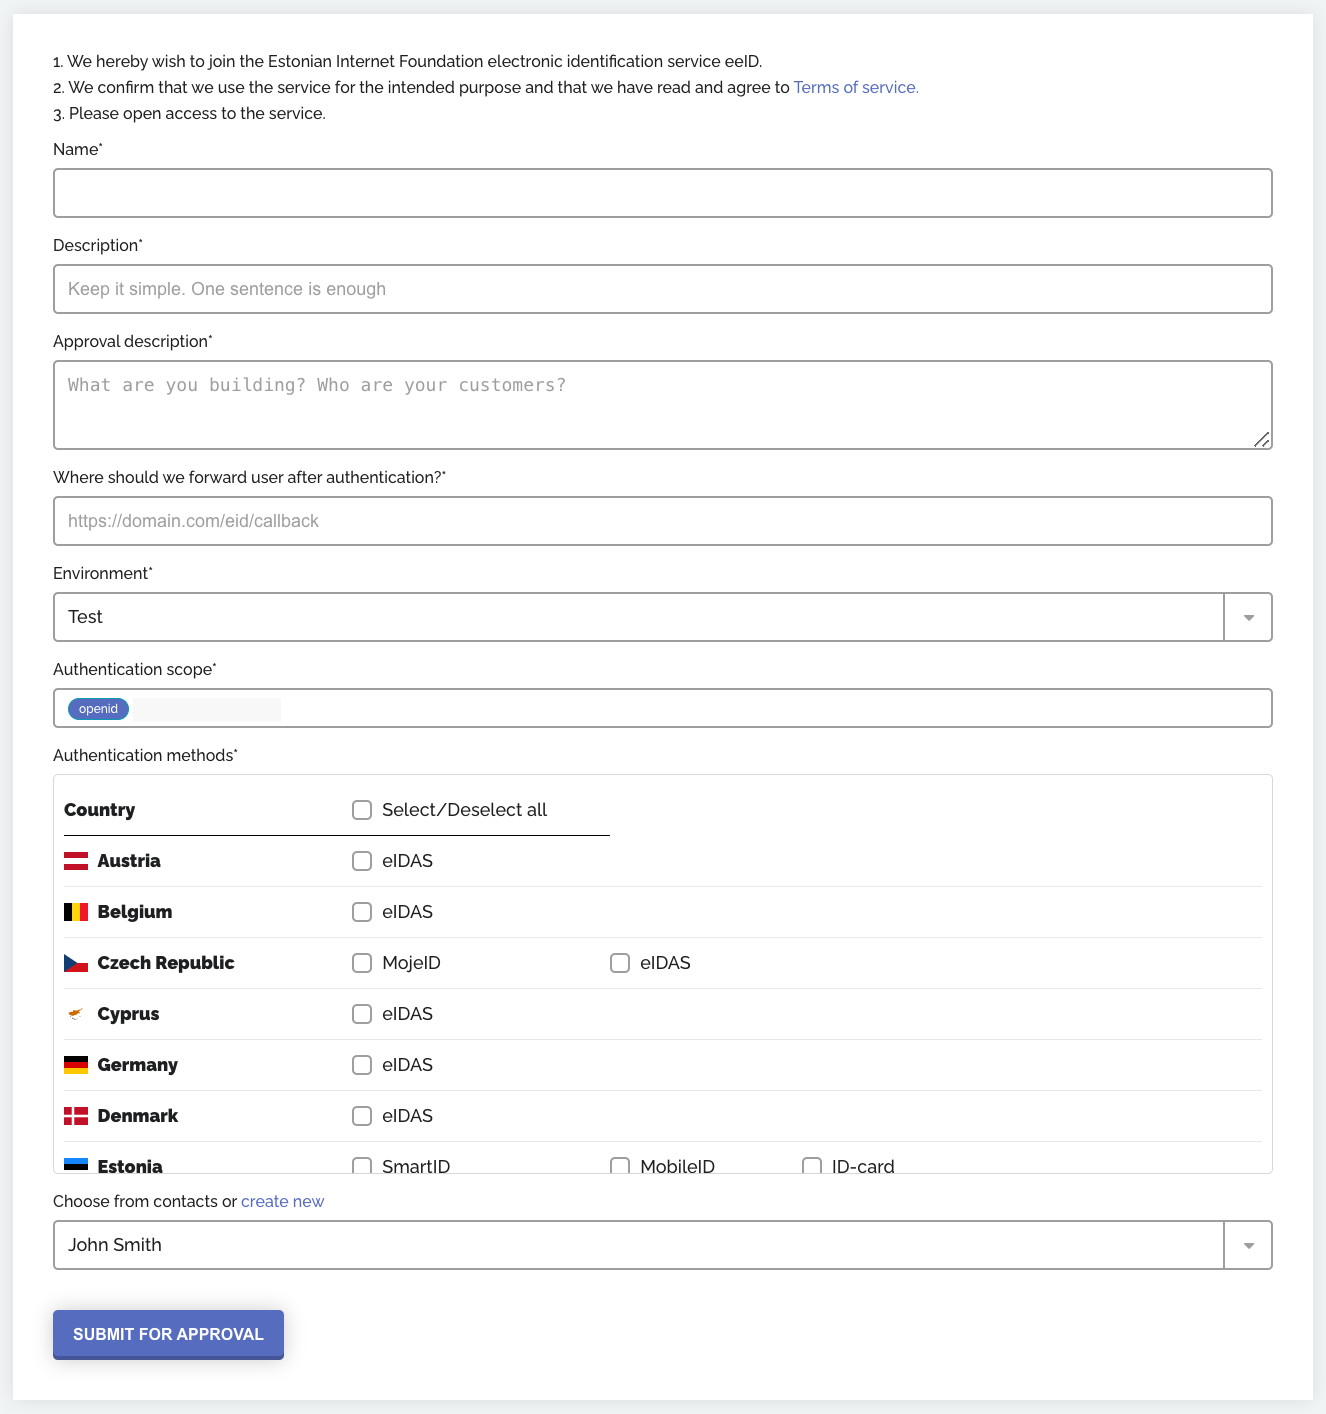
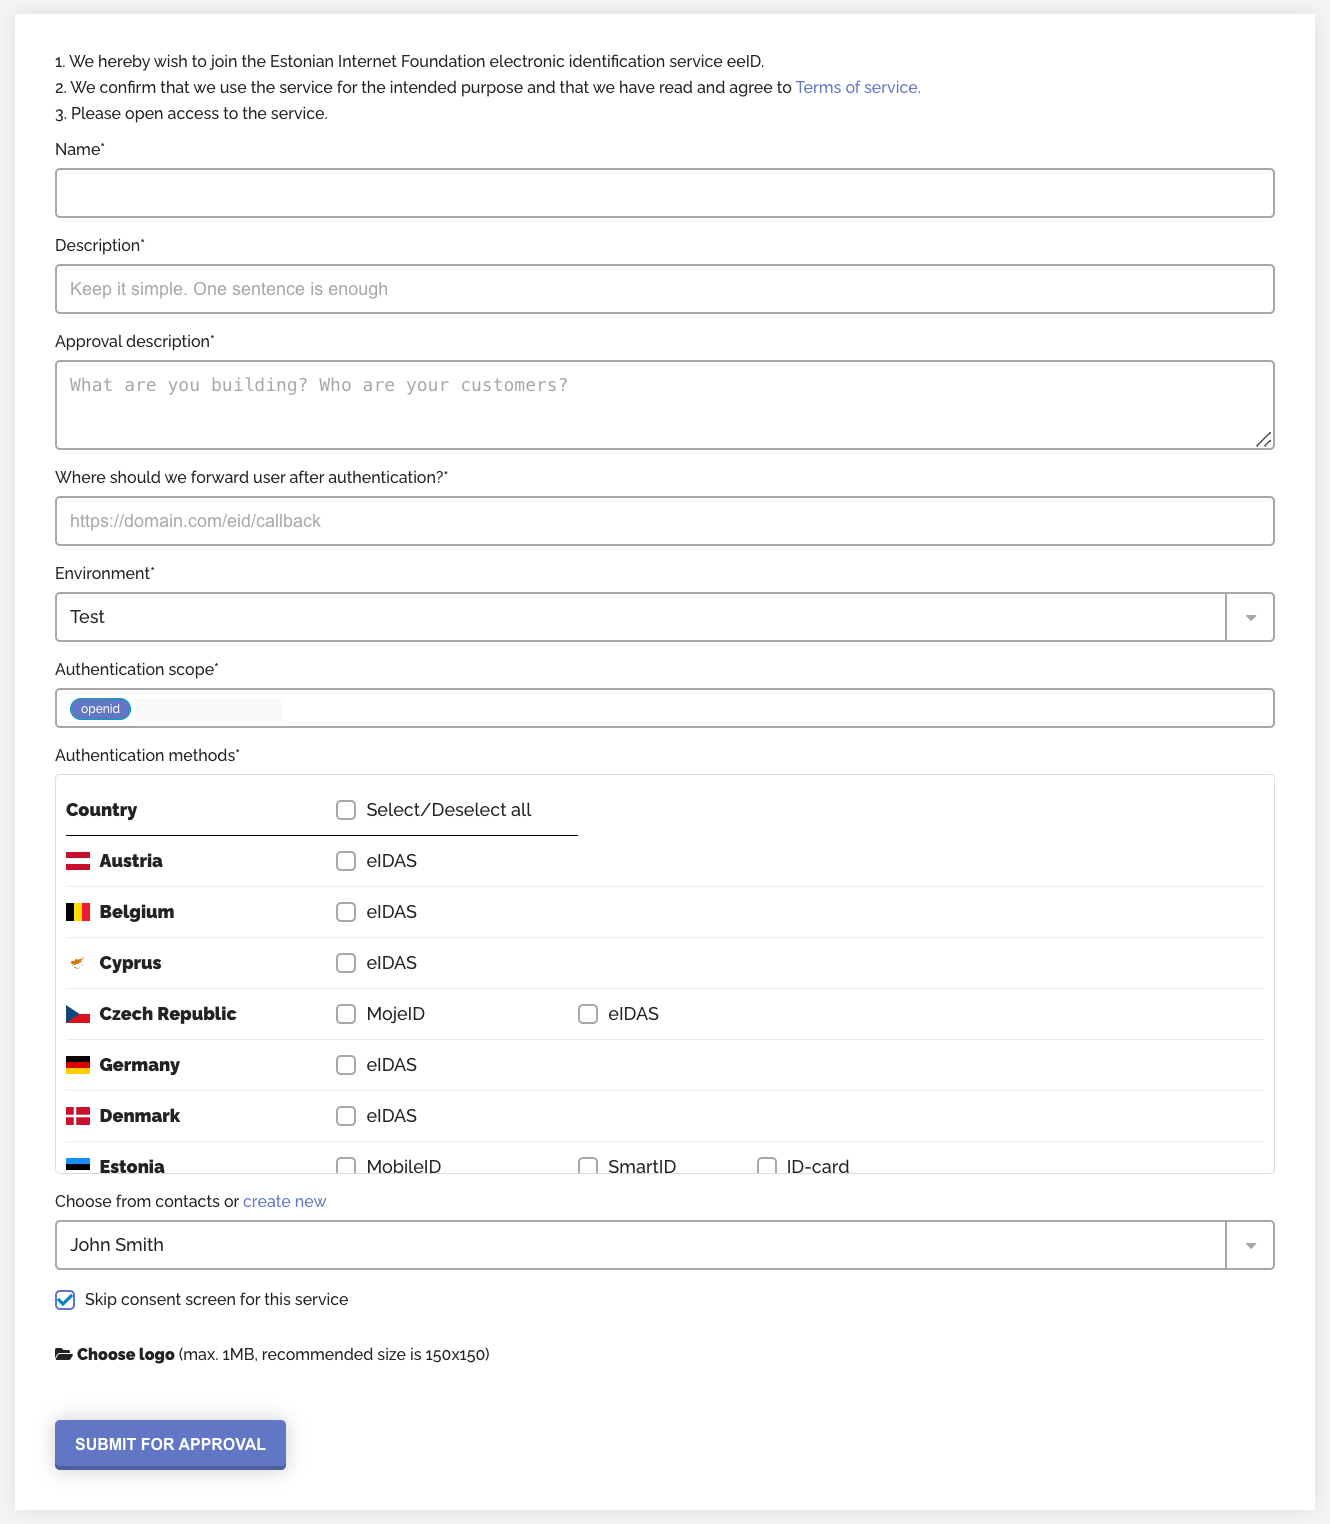
Updated index.html.md

diff --git a/source/index.html.md b/source/index.html.md
@@ -58,6 +58,8 @@ In order to get started you have to sign up and create your first service in the
 * Authentication scope - choose the authentication scope you wish to support. The following scopes are supported: `openid`, `webauthn`, `phone` and `email`. NB! `idcard`, `mid`, `smartid` and `eidas` are no longer in use and will be removed.
 * Authentication methods - choose the authentication methods you wish to support. You can select one or more methods based on your preferred country.
 * Contact - choose an existing contact or create a new one. This contact will be associated with the service, and it might be the point of contact for any communications or notifications regarding the service.
+* Consent screen - configure it to skip the "consent screen", which is the screen where the user must explicitly agree to giving the service access to their data and allow perform operations on their behalf.
+* Choose logo - upload a logo for your service.
 * Submission - review all the details entered in the form, and if everything is correct, click on `SUBMIT FOR APPROVAL` to submit your service.
 
 Once you submit the form, it will be reviewed by the service administrators
@@ -417,7 +419,7 @@ The eeID test environment is directed to the Smart-ID demo environment. There ar
 * Use [test users](https://github.com/SK-EID/smart-id-documentation/wiki/Environment-technical-parameters#test-accounts-for-automated-testing).
 
 # Run in Postman
-[<img src="https://run.pstmn.io/button.svg" alt="Run In Postman" style="width: 128px; height: 32px;">](https://god.gw.postman.com/run-collection/19898114-17a1f32a-6558-4fe1-b176-1ef67613d524?action=collection%2Ffork&source=rip_markdown&collection-url=entityId%3D19898114-17a1f32a-6558-4fe1-b176-1ef67613d524%26entityType%3Dcollection%26workspaceId%3D9b267308-63bf-4630-91e1-fc8afccd37ad)
+[<img src="https://run.pstmn.io/button.svg" alt="Run In Postman" style="width: 128px; height: 32px;">](https://god.gw.postman.com/run-collection/37760758-c07af2ef-c1d1-4675-91d1-701c0ea51871?action=collection%2Ffork&source=rip_markdown&collection-url=entityId%3D37760758-c07af2ef-c1d1-4675-91d1-701c0ea51871%26entityType%3Dcollection%26workspaceId%3Dfbfde0f7-54e9-4061-844a-5f03ab3d2ac4)
 
 # Code examples
 
